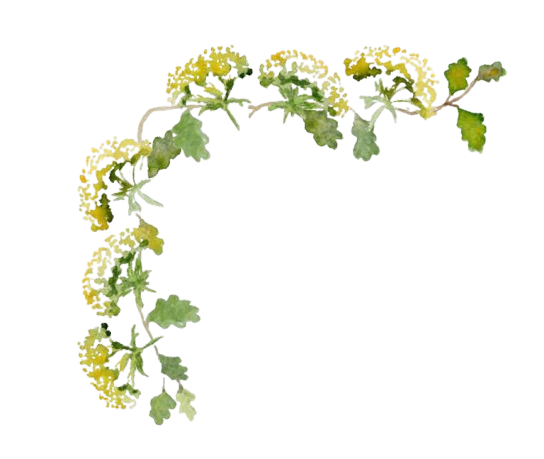
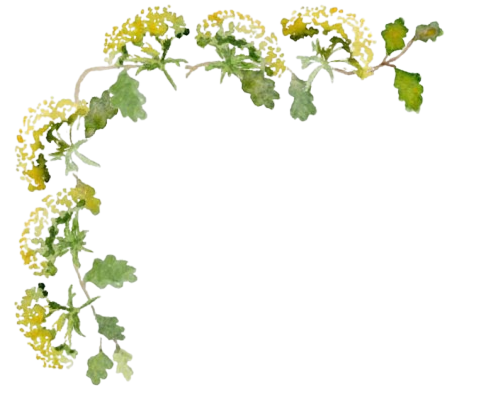
Add Login

Changed region(s): [[0.0312, 0.0, 0.9356, 0.9308]]

diff --git a/assets/css/style.css b/assets/css/style.css
@@ -1475,3 +1475,268 @@ img.where-to-stay-2 {
 .modal-content {
   cursor: default;
 }
+
+/* --- LOGIN OVERLAY --- */
+.login-overlay {
+  position: fixed;
+  top: 0;
+  left: 0;
+  width: 100%;
+  height: 100%;
+  background: #f1e8d5;
+  display: flex;
+  justify-content: center;
+  align-items: center;
+  z-index: 9999;
+  opacity: 1;
+  visibility: visible;
+  transition: opacity 0.5s ease, visibility 0.5s ease;
+}
+
+.login-overlay.hidden {
+  opacity: 0;
+  visibility: hidden;
+  pointer-events: none;
+}
+
+/* Decorative corners - tamaño proporcional al boceto */
+.login-decoration {
+  position: absolute;
+  width: 140px;
+  height: 140px;
+  background: url("../img/esquinero.png") no-repeat center / contain;
+  pointer-events: none;
+}
+
+.login-decoration.top-left {
+  top: 5px;
+  left: 5px;
+  transform: rotate(0deg);
+}
+
+.login-decoration.top-right {
+  top: 5px;
+  right: 5px;
+  transform: rotate(90deg);
+}
+
+.login-decoration.bottom-left {
+  bottom: 5px;
+  left: 5px;
+  transform: rotate(-90deg);
+}
+
+.login-decoration.bottom-right {
+  bottom: 5px;
+  right: 5px;
+  transform: rotate(180deg);
+}
+
+/* Login content - según boceto */
+.login-content {
+  display: flex;
+  flex-direction: column;
+  align-items: center;
+  justify-content: center;
+  gap: 30px;
+  max-width: 400px;
+  width: 90%;
+  padding: 40px 20px;
+  z-index: 1;
+}
+
+.login-logo {
+  max-width: 180px;
+  height: auto;
+  margin-bottom: 10px;
+}
+
+.login-form {
+  display: flex;
+  flex-direction: row;
+  align-items: center;
+  justify-content: center;
+  gap: 10px;
+  width: 100%;
+  flex-wrap: wrap;
+}
+
+.password-input {
+  flex: 1;
+  min-width: 200px;
+  max-width: 280px;
+  padding: 12px 20px;
+  border: 2px solid #6fa1b6;
+  border-radius: 10px;
+  font-family: "Quicksand", sans-serif;
+  font-size: 16px;
+  color: #0d3950;
+  background: white;
+  text-align: left;
+  outline: none;
+  transition: border-color 0.2s, box-shadow 0.2s;
+}
+
+.password-input:focus {
+  border-color: #0d3950;
+  box-shadow: 0 0 0 3px rgba(111, 161, 182, 0.3);
+}
+
+.password-input::placeholder {
+  color: #9ab3c0;
+  font-size: 15px;
+}
+
+.unlock-btn {
+  background: #0d3950;
+  color: white;
+  border: none;
+  padding: 12px 24px;
+  border-radius: 10px;
+  font-family: "Quicksand", sans-serif;
+  font-size: 15px;
+  font-weight: 500;
+  cursor: pointer;
+  transition: opacity 0.2s, transform 0.2s;
+  white-space: nowrap;
+}
+
+.unlock-btn:hover {
+  opacity: 0.85;
+  transform: translateY(-2px);
+}
+
+.unlock-btn:active {
+  transform: translateY(0);
+}
+
+.error-message {
+  color: #c0392b;
+  font-family: "Source Sans 3", sans-serif;
+  font-size: 13px;
+  margin-top: 8px;
+  text-align: center;
+  opacity: 0.9;
+}
+
+/* Desktop login styles */
+@media (min-width: 769px) {
+  .login-decoration {
+    width: 180px;
+    height: 180px;
+  }
+
+  .login-decoration.top-left {
+    top: 8px;
+    left: 8px;
+  }
+
+  .login-decoration.top-right {
+    top: 8px;
+    right: 8px;
+  }
+
+  .login-decoration.bottom-left {
+    bottom: 8px;
+    left: 8px;
+  }
+
+  .login-decoration.bottom-right {
+    bottom: 8px;
+    right: 8px;
+  }
+
+  .login-content {
+    max-width: 500px;
+    gap: 40px;
+  }
+
+  .login-logo {
+    max-width: 220px;
+  }
+
+  .password-input {
+    font-size: 18px;
+    padding: 14px 24px;
+    max-width: 320px;
+    min-width: 250px;
+  }
+
+  .unlock-btn {
+    font-size: 16px;
+    padding: 14px 28px;
+  }
+}
+
+/* Mobile login adjustments - proporcional al boceto */
+@media (max-width: 480px) {
+  .login-decoration {
+    width: 100px;
+    height: 100px;
+  }
+
+  .login-decoration.top-left {
+    top: 3px;
+    left: 3px;
+  }
+
+  .login-decoration.top-right {
+    top: 3px;
+    right: 3px;
+  }
+
+  .login-decoration.bottom-left {
+    bottom: 3px;
+    left: 3px;
+  }
+
+  .login-decoration.bottom-right {
+    bottom: 3px;
+    right: 3px;
+  }
+
+  .login-content {
+    padding: 30px 20px;
+    gap: 25px;
+    max-width: 350px;
+  }
+
+  .login-logo {
+    max-width: 150px;
+  }
+
+  .login-form {
+    flex-direction: column;
+    align-items: flex-end;
+    justify-content: center;
+    gap: 10px;
+    width: 100%;
+    max-width: 280px;
+    margin: 0 auto;
+  }
+
+  .password-input {
+    font-size: 15px;
+    padding: 12px 18px;
+    width: 100%;
+    border-radius: 10px;
+    border: 2px solid #6fa1b6;
+    text-align: left;
+  }
+
+  .password-input::placeholder {
+    font-size: 14px;
+  }
+
+  .unlock-btn {
+    font-size: 13px;
+    padding: 8px 20px;
+    border-radius: 8px;
+    font-weight: 500;
+    margin-left: auto;
+  }
+
+  .error-message {
+    font-size: 14px;
+  }
+}

diff --git a/js/script.js b/js/script.js
@@ -332,4 +332,75 @@ document.addEventListener('DOMContentLoaded', () => {
       }
     });
   });
+
+  // --- LOGIN FUNCTIONALITY ---
+  const loginOverlay = document.getElementById('login-overlay');
+  const passwordInput = document.getElementById('password-input');
+  const unlockBtn = document.getElementById('unlock-btn');
+  const errorMessage = document.getElementById('error-message');
+  
+  const CORRECT_PASSWORD = 'Montalto123';
+  const STORAGE_KEY = 'weddingAccessGranted';
+  
+  // Check if user is already logged in
+  function checkAccess() {
+    const isGranted = localStorage.getItem(STORAGE_KEY);
+    if (isGranted === 'true') {
+      hideLogin();
+    }
+  }
+  
+  // Hide login overlay
+  function hideLogin() {
+    if (loginOverlay) {
+      loginOverlay.classList.add('hidden');
+      setTimeout(() => {
+        loginOverlay.style.display = 'none';
+      }, 500);
+    }
+  }
+  
+  // Validate password
+  function validatePassword() {
+    const enteredPassword = passwordInput ? passwordInput.value.trim() : '';
+    
+    if (enteredPassword === CORRECT_PASSWORD) {
+      // Store access in localStorage
+      localStorage.setItem(STORAGE_KEY, 'true');
+      
+      // Hide error message
+      if (errorMessage) {
+        errorMessage.hidden = true;
+      }
+      
+      // Hide login
+      hideLogin();
+    } else {
+      // Show error message
+      if (errorMessage) {
+        errorMessage.hidden = false;
+      }
+      
+      // Clear input
+      if (passwordInput) {
+        passwordInput.value = '';
+        passwordInput.focus();
+      }
+    }
+  }
+  
+  // Event listeners for login
+  if (unlockBtn && passwordInput) {
+    unlockBtn.addEventListener('click', validatePassword);
+    
+    // Allow Enter key to submit
+    passwordInput.addEventListener('keypress', (e) => {
+      if (e.key === 'Enter') {
+        validatePassword();
+      }
+    });
+  }
+  
+  // Check access on page load
+  checkAccess();
 });

diff --git a/index.html b/index.html
@@ -24,6 +24,29 @@
     />
   </head>
   <body>
+    <!-- Login Overlay -->
+    <div id="login-overlay" class="login-overlay">
+      <div class="login-decoration top-left"></div>
+      <div class="login-decoration top-right"></div>
+      <div class="login-decoration bottom-left"></div>
+      <div class="login-decoration bottom-right"></div>
+      
+      <div class="login-content">
+        <img class="login-logo" src="assets/img/logoJyM.png" alt="J&M Logo" />
+        <div class="login-form">
+          <input 
+            type="password" 
+            id="password-input" 
+            class="password-input" 
+            placeholder="Enter password"
+            autocomplete="off"
+          />
+          <button id="unlock-btn" class="unlock-btn">Unlock</button>
+        </div>
+        <p id="error-message" class="error-message" hidden>Incorrect password. Please try again.</p>
+      </div>
+    </div>
+
     <div class="landing-quicksand">
       <nav class="navbar">
         <a class="navbar-brand" href="#inicio">
